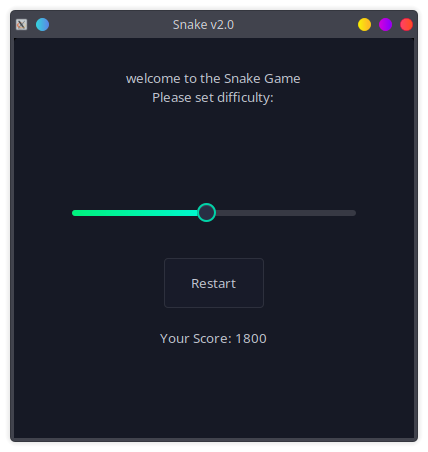
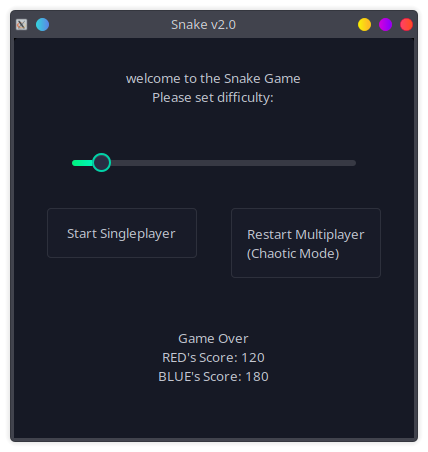
Added multiplayer functionality

diff --git a/README.md b/README.md
@@ -1,9 +1,10 @@
-# Snake game in sdl, my own version
+# A Multi-Player Snake game in sdl
 
 ## ScreenShots
 
 ![menu](https://raw.githubusercontent.com/SL-Pirate/snake/main/screenshots/menu.png)
 ![game](https://raw.githubusercontent.com/SL-Pirate/snake/main/screenshots/game.png)
+![multiplayer]()
 ![paused](https://raw.githubusercontent.com/SL-Pirate/snake/main/screenshots/paused.png)
 ![game over](https://raw.githubusercontent.com/SL-Pirate/snake/main/screenshots/gameOver.png)
 
